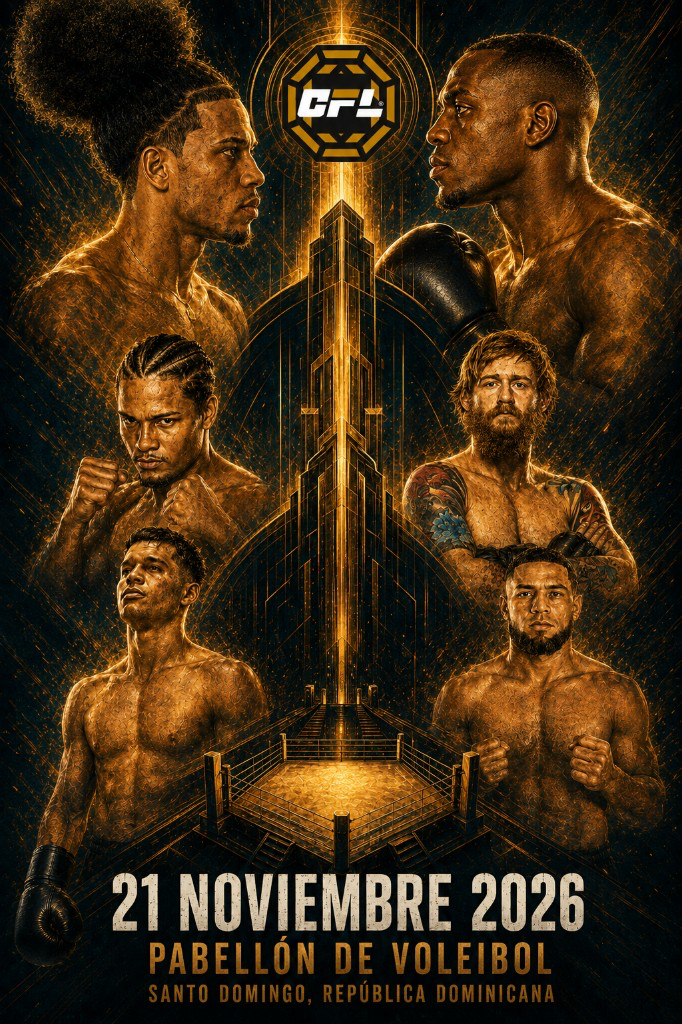
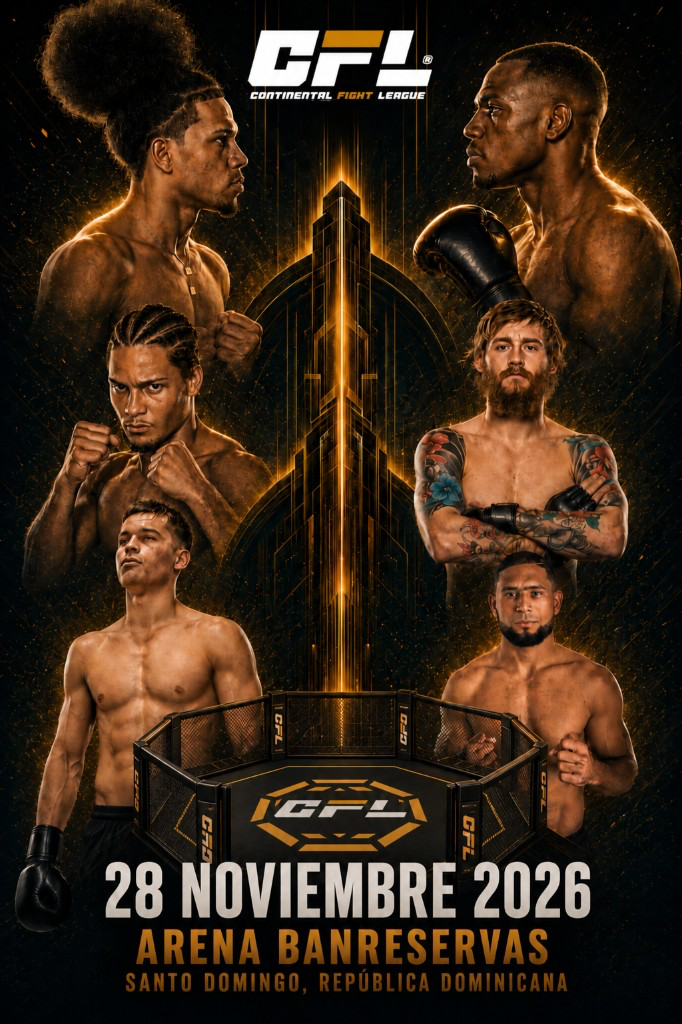
Update premiere to November 28 at Arena Banreservas with new posters.

diff --git a/i18n.js b/i18n.js
@@ -1,7 +1,7 @@
 const CFL_I18N = {
   es: {
     meta_description: "Continental Fight League: boxeo, MMA y entretenimiento internacional desde Santo Domingo, República Dominicana.",
-    meta_description_tickets: "Boletos CFL Santo Domingo Premiere — próximamente. 21 noviembre 2026, Pabellón de Volleyball.",
+    meta_description_tickets: "Boletos CFL Santo Domingo Premiere — próximamente. 28 noviembre 2026, Arena Banreservas.",
     title_home: "CFL | Continental Fight League",
     title_tickets: "Boletos | CFL Continental Fight League",
     skip: "Saltar al contenido",
@@ -28,12 +28,12 @@ const CFL_I18N = {
     hero2_eyebrow: "Boxeo internacional",
     hero2_title: "El mundo pelea en Santo Domingo",
     hero2_copy: "Atletas de República Dominicana, Canadá, Estados Unidos y el Caribe bajo una misma plataforma.",
-    hero2_cta1: "21 noviembre 2026",
+    hero2_cta1: "28 noviembre 2026",
     hero2_cta2: "Recibe novedades",
     hero2_caption: "CFL Fight Night · Boxeo",
     hero3_eyebrow: "Talento dominicano",
     hero3_title: "Una nación. Una pelea. Un solo corazón",
-    hero3_copy: "CFL proyecta a los atletas dominicanos y convierte el Pabellón de Volleyball en una vitrina global.",
+    hero3_copy: "CFL proyecta a los atletas dominicanos y convierte la Arena Banreservas en una vitrina global.",
     hero3_cta1: "Ver atletas",
     hero3_cta2: "Nuestra visión",
     hero3_caption: "CFL Fight Night · MMA",
@@ -58,7 +58,7 @@ const CFL_I18N = {
     tickets_link: "Boletos",
     event_eyebrow: "Fight night",
     event_title: "CFL Santo Domingo premiere",
-    event_venue: "Pabellón de Volleyball · Santo Domingo, RD · 7:00 pm AST",
+    event_venue: "Arena Banreservas · Santo Domingo, RD · 7:00 pm AST",
     event_info: "Info del evento",
     roster_eyebrow: "Talento CFL",
     roster_title: "Atletas",
@@ -72,8 +72,8 @@ const CFL_I18N = {
     fighter_branny: "MMA · República Dominicana",
     fighter_delffy: "MMA · República Dominicana",
     brand_eyebrow: "CFL Santo Domingo Premiere",
-    brand_title: "21 de noviembre en Santo Domingo",
-    brand_copy: "CFL llega al Pabellón de Voleibol con una noche internacional de boxeo y MMA. Una cartelera premium, producción de alto nivel y una experiencia diseñada para proyectar a República Dominicana.",
+    brand_title: "28 de noviembre en Santo Domingo",
+    brand_copy: "CFL llega a la Arena Banreservas con una noche internacional de boxeo y MMA. Una cartelera premium, producción de alto nivel y una experiencia diseñada para proyectar a República Dominicana.",
     brand_word: "Premiere",
     news_eyebrow: "Noticias",
     news_title: "Dentro de CFL",
@@ -86,7 +86,7 @@ const CFL_I18N = {
     news2_title: "Una plataforma caribeña para impulsar atletas hacia escenarios globales.",
     news2_date: "10 julio 2026",
     news3_tag: "Evento",
-    news3_title: "CFL Premiere: 21 de noviembre en el Pabellón de Voleibol.",
+    news3_title: "CFL Premiere: 28 de noviembre en Arena Banreservas.",
     news3_date: "13 agosto 2026",
     news4_tag: "Próximamente",
     news4_title: "Más anuncios de cartelera, partners y transmisión en camino.",
@@ -107,9 +107,9 @@ const CFL_I18N = {
     tickets_title: "Boletos<br /><span>próximamente</span>",
     tickets_copy: "La venta oficial aún no está abierta. Regístrate para recibir acceso prioritario cuando salgan a la venta.",
     tickets_date_label: "Fecha",
-    tickets_date_value: "21 noviembre 2026 · 7:00 pm AST",
+    tickets_date_value: "28 noviembre 2026 · 7:00 pm AST",
     tickets_venue_label: "Venue",
-    tickets_venue_value: "Pabellón de Volleyball, Santo Domingo",
+    tickets_venue_value: "Arena Banreservas, Santo Domingo",
     tickets_notify: "Avísame",
     tickets_note: "Te avisaremos cuando los boletos estén disponibles. Formulario de demostración.",
     tickets_view_event: "Ver evento",
@@ -275,7 +275,7 @@ const CFL_I18N = {
   },
   en: {
     meta_description: "Continental Fight League: boxing, MMA, and international entertainment from Santo Domingo, Dominican Republic.",
-    meta_description_tickets: "CFL Santo Domingo Premiere tickets — coming soon. November 21, 2026, Pabellón de Volleyball.",
+    meta_description_tickets: "CFL Santo Domingo Premiere tickets — coming soon. November 28, 2026, Arena Banreservas.",
     title_home: "CFL | Continental Fight League",
     title_tickets: "Tickets | CFL Continental Fight League",
     skip: "Skip to content",
@@ -302,12 +302,12 @@ const CFL_I18N = {
     hero2_eyebrow: "International boxing",
     hero2_title: "The world fights in Santo Domingo",
     hero2_copy: "Athletes from the Dominican Republic, Canada, the United States, and the Caribbean on one platform.",
-    hero2_cta1: "November 21, 2026",
+    hero2_cta1: "November 28, 2026",
     hero2_cta2: "Get updates",
     hero2_caption: "CFL Fight Night · Boxing",
     hero3_eyebrow: "Dominican talent",
     hero3_title: "One nation. One fight. One heart",
-    hero3_copy: "CFL elevates Dominican athletes and turns Pabellón de Volleyball into a global stage.",
+    hero3_copy: "CFL elevates Dominican athletes and turns Arena Banreservas into a global stage.",
     hero3_cta1: "View fighters",
     hero3_cta2: "Our vision",
     hero3_caption: "CFL Fight Night · MMA",
@@ -332,7 +332,7 @@ const CFL_I18N = {
     tickets_link: "Tickets",
     event_eyebrow: "Fight night",
     event_title: "CFL Santo Domingo premiere",
-    event_venue: "Pabellón de Volleyball · Santo Domingo, DR · 7:00 pm AST",
+    event_venue: "Arena Banreservas · Santo Domingo, DR · 7:00 pm AST",
     event_info: "Event info",
     roster_eyebrow: "CFL talent",
     roster_title: "Fighters",
@@ -346,8 +346,8 @@ const CFL_I18N = {
     fighter_branny: "MMA · Dominican Republic",
     fighter_delffy: "MMA · Dominican Republic",
     brand_eyebrow: "CFL Santo Domingo Premiere",
-    brand_title: "November 21 in Santo Domingo",
-    brand_copy: "CFL comes to the Pabellón de Voleibol with an international night of boxing and MMA. A premium card, high-end production, and an experience built to put the Dominican Republic on the map.",
+    brand_title: "November 28 in Santo Domingo",
+    brand_copy: "CFL comes to Arena Banreservas with an international night of boxing and MMA. A premium card, high-end production, and an experience built to put the Dominican Republic on the map.",
     brand_word: "Premiere",
     news_eyebrow: "News",
     news_title: "Inside CFL",
@@ -360,7 +360,7 @@ const CFL_I18N = {
     news2_title: "A Caribbean platform to push athletes onto global stages.",
     news2_date: "July 10, 2026",
     news3_tag: "Event",
-    news3_title: "CFL Premiere: November 21 at the Pabellón de Voleibol.",
+    news3_title: "CFL Premiere: November 28 at Arena Banreservas.",
     news3_date: "August 13, 2026",
     news4_tag: "Coming soon",
     news4_title: "More card announcements, partners, and broadcast news on the way.",
@@ -381,9 +381,9 @@ const CFL_I18N = {
     tickets_title: "Tickets<br /><span>coming soon</span>",
     tickets_copy: "Official sales are not open yet. Sign up for priority access when tickets go on sale.",
     tickets_date_label: "Date",
-    tickets_date_value: "November 21, 2026 · 7:00 pm AST",
+    tickets_date_value: "November 28, 2026 · 7:00 pm AST",
     tickets_venue_label: "Venue",
-    tickets_venue_value: "Pabellón de Volleyball, Santo Domingo",
+    tickets_venue_value: "Arena Banreservas, Santo Domingo",
     tickets_notify: "Notify me",
     tickets_note: "We'll let you know when tickets are available. Demo form.",
     tickets_view_event: "View event",

diff --git a/index.html b/index.html
@@ -85,7 +85,7 @@
             <h2 data-i18n="hero2_title">El mundo pelea en Santo Domingo</h2>
             <p class="hero-copy" data-i18n="hero2_copy">Atletas de República Dominicana, Canadá, Estados Unidos y el Caribe bajo una misma plataforma.</p>
             <div class="hero-actions">
-              <a class="button button-primary" href="#evento" data-i18n="hero2_cta1">21 noviembre 2026</a>
+              <a class="button button-primary" href="#evento" data-i18n="hero2_cta1">28 noviembre 2026</a>
               <a class="button button-ghost" href="#registro" data-i18n="hero2_cta2">Recibe novedades</a>
             </div>
           </div>
@@ -97,7 +97,7 @@
           <div class="hero-content reveal">
             <p class="eyebrow" data-i18n="hero3_eyebrow">Talento dominicano</p>
             <h2 data-i18n="hero3_title">Una nación. Una pelea. Un solo corazón</h2>
-            <p class="hero-copy" data-i18n="hero3_copy">CFL proyecta a los atletas dominicanos y convierte el Pabellón de Volleyball en una vitrina global.</p>
+            <p class="hero-copy" data-i18n="hero3_copy">CFL proyecta a los atletas dominicanos y convierte la Arena Banreservas en una vitrina global.</p>
             <div class="hero-actions">
               <a class="button button-primary" href="#talento" data-i18n="hero3_cta1">Ver atletas</a>
               <a class="button button-ghost" href="#nosotros" data-i18n="hero3_cta2">Nuestra visión</a>
@@ -107,7 +107,7 @@
         </article>
       </div>
 
-      <div class="hero-countdown" data-countdown data-date="2026-11-21T19:00:00-04:00" data-i18n-aria="countdown" aria-label="Cuenta regresiva">
+      <div class="hero-countdown" data-countdown data-date="2026-11-28T19:00:00-04:00" data-i18n-aria="countdown" aria-label="Cuenta regresiva">
         <div><strong data-days>00</strong><span data-i18n="days">días</span></div>
         <div><strong data-hours>00</strong><span data-i18n="hours">hrs</span></div>
         <div><strong data-minutes>00</strong><span data-i18n="minutes">min</span></div>
@@ -147,17 +147,17 @@
 
       <article class="event-card reveal">
         <div class="event-card-media">
-          <img src="assets/cfl-premiere-poster.png" alt="CFL Santo Domingo Premiere — 21 noviembre 2026, Pabellón de Voleibol" loading="lazy" />
+          <img src="assets/cfl-event-poster.png" alt="CFL Santo Domingo Premiere — 28 noviembre 2026" loading="lazy" />
           <div class="event-date-badge">
-            <span>21</span>
+            <span>28</span>
             <strong>nov</strong>
           </div>
         </div>
         <div class="event-card-body">
           <p class="eyebrow" data-i18n="event_eyebrow">Fight night</p>
           <h3 data-i18n="event_title">CFL Santo Domingo premiere</h3>
-          <p class="event-venue" data-i18n="event_venue">Pabellón de Volleyball · Santo Domingo, RD · 7:00 pm AST</p>
-          <div class="event-card-countdown" data-countdown data-date="2026-11-21T19:00:00-04:00">
+          <p class="event-venue" data-i18n="event_venue">Arena Banreservas · Santo Domingo, RD · 7:00 pm AST</p>
+          <div class="event-card-countdown" data-countdown data-date="2026-11-28T19:00:00-04:00">
             <div><strong data-days>00</strong><span data-i18n="days">días</span></div>
             <div><strong data-hours>00</strong><span data-i18n="hours">hrs</span></div>
             <div><strong data-minutes>00</strong><span data-i18n="minutes">min</span></div>
@@ -260,12 +260,12 @@
     <section class="brand-story section">
       <div class="brand-story-copy reveal">
         <p class="eyebrow" data-i18n="brand_eyebrow">CFL Santo Domingo Premiere</p>
-        <h2 data-i18n="brand_title">21 de noviembre en Santo Domingo</h2>
-        <p data-i18n="brand_copy">CFL llega al Pabellón de Voleibol con una noche internacional de boxeo y MMA. Una cartelera premium, producción de alto nivel y una experiencia diseñada para proyectar a República Dominicana.</p>
+        <h2 data-i18n="brand_title">28 de noviembre en Santo Domingo</h2>
+        <p data-i18n="brand_copy">CFL llega a la Arena Banreservas con una noche internacional de boxeo y MMA. Una cartelera premium, producción de alto nivel y una experiencia diseñada para proyectar a República Dominicana.</p>
         <a class="button button-light" href="#registro" data-i18n="belief_cta">Únete a la comunidad</a>
       </div>
       <div class="brand-story-art reveal">
-        <img src="assets/cfl-premiere-poster.png" alt="CFL Santo Domingo Premiere — 21 noviembre 2026, Pabellón de Voleibol" loading="lazy" />
+        <img src="assets/cfl-premiere-poster.png" alt="CFL Santo Domingo Premiere — 28 noviembre 2026, Arena Banreservas" loading="lazy" />
       </div>
       <div class="brand-story-word" aria-hidden="true" data-i18n="brand_word">Premiere</div>
     </section>
@@ -305,10 +305,10 @@
           </article>
           <article class="news-row reveal">
             <a href="#evento">
-              <img src="assets/cfl-premiere-poster.png" alt="CFL Santo Domingo Premiere — 21 noviembre 2026" loading="lazy" />
+              <img src="assets/cfl-premiere-poster.png" alt="CFL Santo Domingo Premiere — 28 noviembre 2026" loading="lazy" />
               <div>
                 <span data-i18n="news3_tag">Evento</span>
-                <h3 data-i18n="news3_title">CFL Premiere: 21 de noviembre en el Pabellón de Voleibol.</h3>
+                <h3 data-i18n="news3_title">CFL Premiere: 28 de noviembre en Arena Banreservas.</h3>
                 <time datetime="2026-08-13" data-i18n="news3_date">13 agosto 2026</time>
               </div>
             </a>

diff --git a/styles.css b/styles.css
@@ -383,6 +383,7 @@ button { color: inherit; }
  align-items: center;
  gap: clamp(3rem, 9vw, 10rem);
  padding-inline: max(clamp(1.25rem, 4vw, 4rem), calc((100vw - var(--max)) / 2 + 4rem));
+ padding-inline-end: max(clamp(2.5rem, 6vw, 5.5rem), calc((100vw - var(--max)) / 2 + 5.5rem));
  overflow: hidden;
  background: var(--gold);
  color: #070707;
@@ -390,8 +391,23 @@ button { color: inherit; }
 .brand-story-copy { max-width: 700px; }
 .brand-story .eyebrow { color: #050505; opacity: .7; }
 .brand-story-copy p:not(.eyebrow) { max-width: 650px; margin: 2rem 0; font-size: 1.1rem; }
-.brand-story-art { position: relative; height: 720px; width: min(100%, 520px); justify-self: center; z-index: 2; }
-.brand-story-art img { width: 100%; height: 100%; object-fit: cover; box-shadow: 0 35px 75px rgba(0,0,0,.32); transform: rotate(2deg); }
+.brand-story-art {
+  position: relative;
+  width: min(100%, 420px);
+  justify-self: center;
+  z-index: 2;
+  padding: 1.25rem 2rem 1.25rem 1rem;
+  box-sizing: content-box;
+}
+.brand-story-art img {
+  display: block;
+  width: 100%;
+  height: auto;
+  object-fit: contain;
+  box-shadow: 0 35px 75px rgba(0,0,0,.32);
+  transform: rotate(2deg);
+  transform-origin: center center;
+}
 .brand-story-word {
  position: absolute;
  left: 0;
@@ -1218,8 +1234,7 @@ a.partner-card:hover {
  .fighter-card-large, .media-item-wide { grid-column: auto; grid-row: auto; min-height: 360px; }
  .fighter-card { min-height: 320px; }
  .brand-story { grid-template-columns: 1fr; padding-block: 5rem; }
- .brand-story-art { height: auto; width: min(78vw, 480px); }
- .brand-story-art img { height: auto; }
+ .brand-story-art { height: auto; width: min(72vw, 400px); }
  .news-row a { grid-template-columns: 110px 1fr; }
  .media-item-wide, .media-item { min-height: 420px; }
  .signup-form { grid-template-columns: 1fr; }
@@ -1250,7 +1265,7 @@ a.partner-card:hover {
  .button { min-height: 48px; padding-inline: 1rem; }
  .hero-countdown strong, .event-card-countdown strong { font-size: 1.45rem; }
  .hero-countdown div, .event-card-countdown div { min-width: 44px; }
- .brand-story-art { width: 88vw; }
+ .brand-story-art { width: min(78vw, 360px); }
  .fighter-grid { grid-template-columns: 1fr; }
  .fighter-card, .fighter-card-large { min-height: 300px; }
  .footer-bottom { flex-direction: column; }

diff --git a/tickets.html b/tickets.html
@@ -4,7 +4,7 @@
   <meta charset="utf-8" />
   <meta name="viewport" content="width=device-width, initial-scale=1" />
   <meta name="theme-color" content="#070707" />
-  <meta name="description" content="CFL Santo Domingo Premiere tickets — coming soon. November 21, 2026, Pabellón de Volleyball." />
+  <meta name="description" content="CFL Santo Domingo Premiere tickets — coming soon. November 28, 2026, Arena Banreservas." />
   <title>Tickets | CFL Continental Fight League</title>
   <link rel="icon" href="assets/favicon.png?v=5" type="image/png" />
   <link rel="apple-touch-icon" href="assets/apple-touch-icon.png?v=5" />
@@ -73,15 +73,15 @@
         <dl class="tickets-meta">
           <div>
             <dt data-i18n="tickets_date_label">Fecha</dt>
-            <dd data-i18n="tickets_date_value">21 noviembre 2026 · 7:00 pm AST</dd>
+            <dd data-i18n="tickets_date_value">28 noviembre 2026 · 7:00 pm AST</dd>
           </div>
           <div>
             <dt data-i18n="tickets_venue_label">Venue</dt>
-            <dd data-i18n="tickets_venue_value">Pabellón de Volleyball, Santo Domingo</dd>
+            <dd data-i18n="tickets_venue_value">Arena Banreservas, Santo Domingo</dd>
           </div>
         </dl>
 
-        <div class="hero-countdown tickets-countdown" data-countdown data-date="2026-11-21T19:00:00-04:00" data-i18n-aria="countdown" aria-label="Cuenta regresiva">
+        <div class="hero-countdown tickets-countdown" data-countdown data-date="2026-11-28T19:00:00-04:00" data-i18n-aria="countdown" aria-label="Cuenta regresiva">
           <div><strong data-days>00</strong><span data-i18n="days">días</span></div>
           <div><strong data-hours>00</strong><span data-i18n="hours">hrs</span></div>
           <div><strong data-minutes>00</strong><span data-i18n="minutes">min</span></div>
